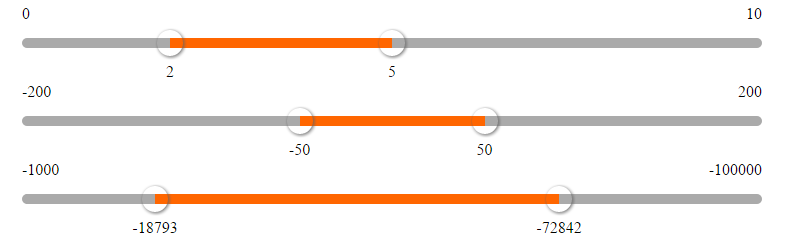
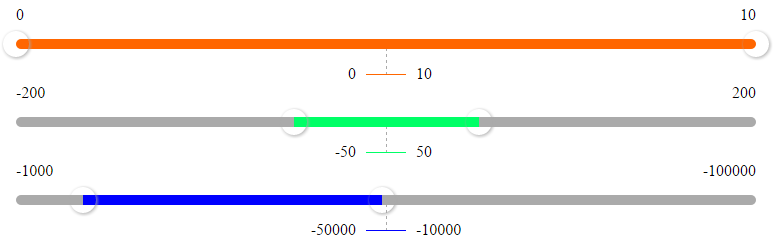
change the output values display + possibility to set a personalised range color

diff --git a/src/components/react-dual-range-slider.jsx b/src/components/react-dual-range-slider.jsx
@@ -6,9 +6,8 @@ import messages from "../lang/default-messages";
 
 export default class ReactDualRangeSlider extends React.Component {
 
-
-
   constructor(props) {
+    
     super(props);
     let limits = this.props.limits.slice().sort(this.sortValues);
     let values = this.props.values.slice().sort(this.sortValues);
@@ -30,12 +29,14 @@ export default class ReactDualRangeSlider extends React.Component {
       moveCurrentX: 0,
       boxWidth:0, 
       formatFunc: this.props.formatFunc, 
-      onChange: this.props.onChange
+      onChange: this.props.onChange,
+      rangeColor: this.props.rangeColor
     }
   }
 
   /**
-   * START TO MOVE
+   * startToMove
+   * event triggered when the user starts to move
    */
 
   startToMove(event, index) {
@@ -51,9 +52,19 @@ export default class ReactDualRangeSlider extends React.Component {
     event.stopPropagation();
   }
 
+  /**
+   * onMouseDown1
+   * event triggered when the user mouse is down on slider 0
+   */
+
   onMouseDown0(event) {
     this.startToMove(event, 0);
   }
+
+  /**
+   * onMouseDown1
+   * event triggered when the user mouse is down on slider 1
+   */
 
   onMouseDown1(event) {
     this.startToMove(event, 1);
@@ -61,7 +72,8 @@ export default class ReactDualRangeSlider extends React.Component {
 
 
   /**
-   * MOVE
+   * onMouseMove
+   * event triggered when the user moves his mouse
    */
 
   onMouseMove(event) {
@@ -74,6 +86,11 @@ export default class ReactDualRangeSlider extends React.Component {
       });
     }
   }
+
+  /**
+   * getMoveCurrentValue
+   * return the moving current value
+   */
 
   getMoveCurrentValue (moveCurrentX) {
     let moveBoxProportion = (moveCurrentX-this.state.moveStartX)/this.state.boxWidth;
@@ -88,13 +105,19 @@ export default class ReactDualRangeSlider extends React.Component {
     return moveCurrentValue;
   }
 
+  /**
+   * formatOutput
+   * return values well formated 
+   */
+
   formatOutput () {
     const values = this.getValues();
     return [this.state.formatFunc(values[0]), this.state.formatFunc(values[1])];
   }
 
   /**
-   * STOP TO MOVE
+   * stopToMove
+   * event triggered when the user stop to move
    */
   
   stopToMove(event) {
@@ -109,21 +132,37 @@ export default class ReactDualRangeSlider extends React.Component {
     event.stopPropagation();
   }
 
+  /**
+   * onMouseLeave
+   * event triggered when the user leave the area with the mouse
+   */
+
   onMouseLeave(event) {
     this.stopToMove(event);
   }
+
+  /**
+   * onMouseUp
+   * event triggered the user stop to drag a slider with the mouse
+   */
 
   onMouseUp(event) {
     this.stopToMove(event);
   }
 
   /**
-   * GET 
+   * getLimits
+   * return limits
    */
 
   getLimits() {
     return this.state.limits.slice();
   }
+
+  /**
+   * getDisplayLimits
+   * return limits well formated
+   */
 
   getDisplayLimits() {
     let limits = this.getLimits();
@@ -133,6 +172,11 @@ export default class ReactDualRangeSlider extends React.Component {
     return [this.state.formatFunc(limits[0]), this.state.formatFunc(limits[1])];
   }
 
+  /**
+   * getValues
+   * return current values, including when sliding
+   */
+
   getValues() {
     let values = this.state.values.slice();
     if(this.state.isSelDown) {
@@ -140,6 +184,11 @@ export default class ReactDualRangeSlider extends React.Component {
     }
     return values;
   }
+
+  /**
+   * getLeftPositions
+   * return left position as a proportion
+   */
 
   getLeftPositions() {
 
@@ -158,15 +207,26 @@ export default class ReactDualRangeSlider extends React.Component {
     return leftPos;
   }
 
+  /**
+   * sortValues
+   * ascending sort method for arrays
+   */
+
   sortValues(a, b) { return a-b; }
 
   /**
    * onChange
+   * trigger the onChange method output
    */
 
   onChange() {
     this.state.onChange(this.formatOutput().sort(this.sortValues));
   }
+
+  /**
+   * render
+   * component rendering method 
+   */
 
   render() {
 
@@ -183,8 +243,10 @@ export default class ReactDualRangeSlider extends React.Component {
 
     const styleCrossline = {
       left:crossLinePos[0]+'%',
-      right:crossLinePos[1]+'%'
+      right:crossLinePos[1]+'%',
+      backgroundColor:this.props.rangeColor
     };
+
 
     const styleSelector0 = {
       left:leftPos[0]+'%'
@@ -192,6 +254,10 @@ export default class ReactDualRangeSlider extends React.Component {
 
     const styleSelector1 = {
       left:leftPos[1]+'%'
+    };
+
+    const styleValueRange = {
+      backgroundColor:this.props.rangeColor
     };
 
     return (
@@ -225,8 +291,9 @@ export default class ReactDualRangeSlider extends React.Component {
         </div>
         
         <div className={styles.values}>
-          <div className={styles.value} style={styleSelector0}>{displayValues[0]}</div>
-          <div className={styles.value} style={styleSelector1}>{displayValues[1]}</div>
+          <div className={styles.value}>{displayValues[0]}</div>
+          <div className={styles.valueRange} style={styleValueRange}></div>
+          <div className={styles.value}>{displayValues[1]}</div>
         </div>
 
       </div>
@@ -241,7 +308,8 @@ ReactDualRangeSlider.propTypes = {
   values: PropTypes.arrayOf(PropTypes.number),
   reverse: PropTypes.bool,
   formatFunc : PropTypes.func,
-  onChange: PropTypes.func
+  onChange: PropTypes.func,
+  rangeColor: PropTypes.string
 };
 
 ReactDualRangeSlider.defaultProps = {
@@ -251,5 +319,6 @@ ReactDualRangeSlider.defaultProps = {
   formatFunc: function(value) {
     return value;
   },
-  onChange: function() {}
+  onChange: function() {},
+  rangeColor:'#f60'
 };

diff --git a/src/styles/react-dual-range-slider.css b/src/styles/react-dual-range-slider.css
@@ -17,6 +17,7 @@ user-select: none;
 .component {
   display: flex;
   flex-direction: column;
+  min-width:200px;
 }
 
 .limits {
@@ -78,7 +79,7 @@ user-select: none;
     bottom: 0;
     right: 0;
     left: 0;
-    box-shadow: 1px 1px 5px #666;
+    box-shadow: 1px 1px 5px #aaa;
     border-radius: 50%;
 }
 
@@ -94,8 +95,10 @@ user-select: none;
 
 .values {
 
-  display: block;
-  position: relative;
+  display: flex;
+  flex-direction: row;
+  justify-content: center;
+  align-items: center;
   
   margin-left: 20px;
   margin-right: 20px;
@@ -103,8 +106,33 @@ user-select: none;
 }
 
 .value {
-
+    min-width:70px;
     display: block;
+}
+
+.value:first-child {
+  text-align: right;
+}
+
+.valueRange {
+  width:40px;
+  background-color:#f60;
+  height:1px;
+  margin-left:10px;
+  margin-right:10px;
+  position:relative;
+}
+
+.valueRange::before {
+    width: 0px;
+    height: 25px;
+    left: 0;
+    right: 0;
+    margin: auto;
+    content: '';
     position: absolute;
-    transform: translate(-50%, 0);
+    bottom: 1px;
+    border-width: 0 0 0 1px;
+    border-style: dashed;
+    border-color: #aaa;
 }

diff --git a/README.md b/README.md
@@ -2,10 +2,13 @@
 
 The react dual range slider is a UI input designed to set a range of values.
 
-You can set the limits and the values by default. 
-The reverse mode permits to get the highest limit value on the left, then the lowest on the right.
-It is done to format yourself the output, easy to round the values.
-Then an onChange event is triggered when the user stops to slide.
+You can set the limits and the values by default.
+The reverse mode permits to switch the order of limit values on left/right.
+
+An onChange event is triggered when the user stops to slide.
+Pass a function to format yourself the output, easy to round the values.
+
+It is possible to set a personalized range color.
 
 ## Demo & Examples
 
@@ -48,7 +51,8 @@ limits: PropTypes.arrayOf(PropTypes.number),
 values: PropTypes.arrayOf(PropTypes.number),
 reverse: PropTypes.bool,
 formatFunc : PropTypes.func,
-onChange: PropTypes.func
+onChange: PropTypes.func,
+rangeColor: PropTypes.string
 ```
 
 ```
@@ -58,6 +62,7 @@ values={[2, 5]}
 formatFunc={(v) => { return Math.round(v); }}
 onChange={(values) => { console.log(values) }}
 reverse={false}
+rangeColor="#0f6"
 />
 ```
 
